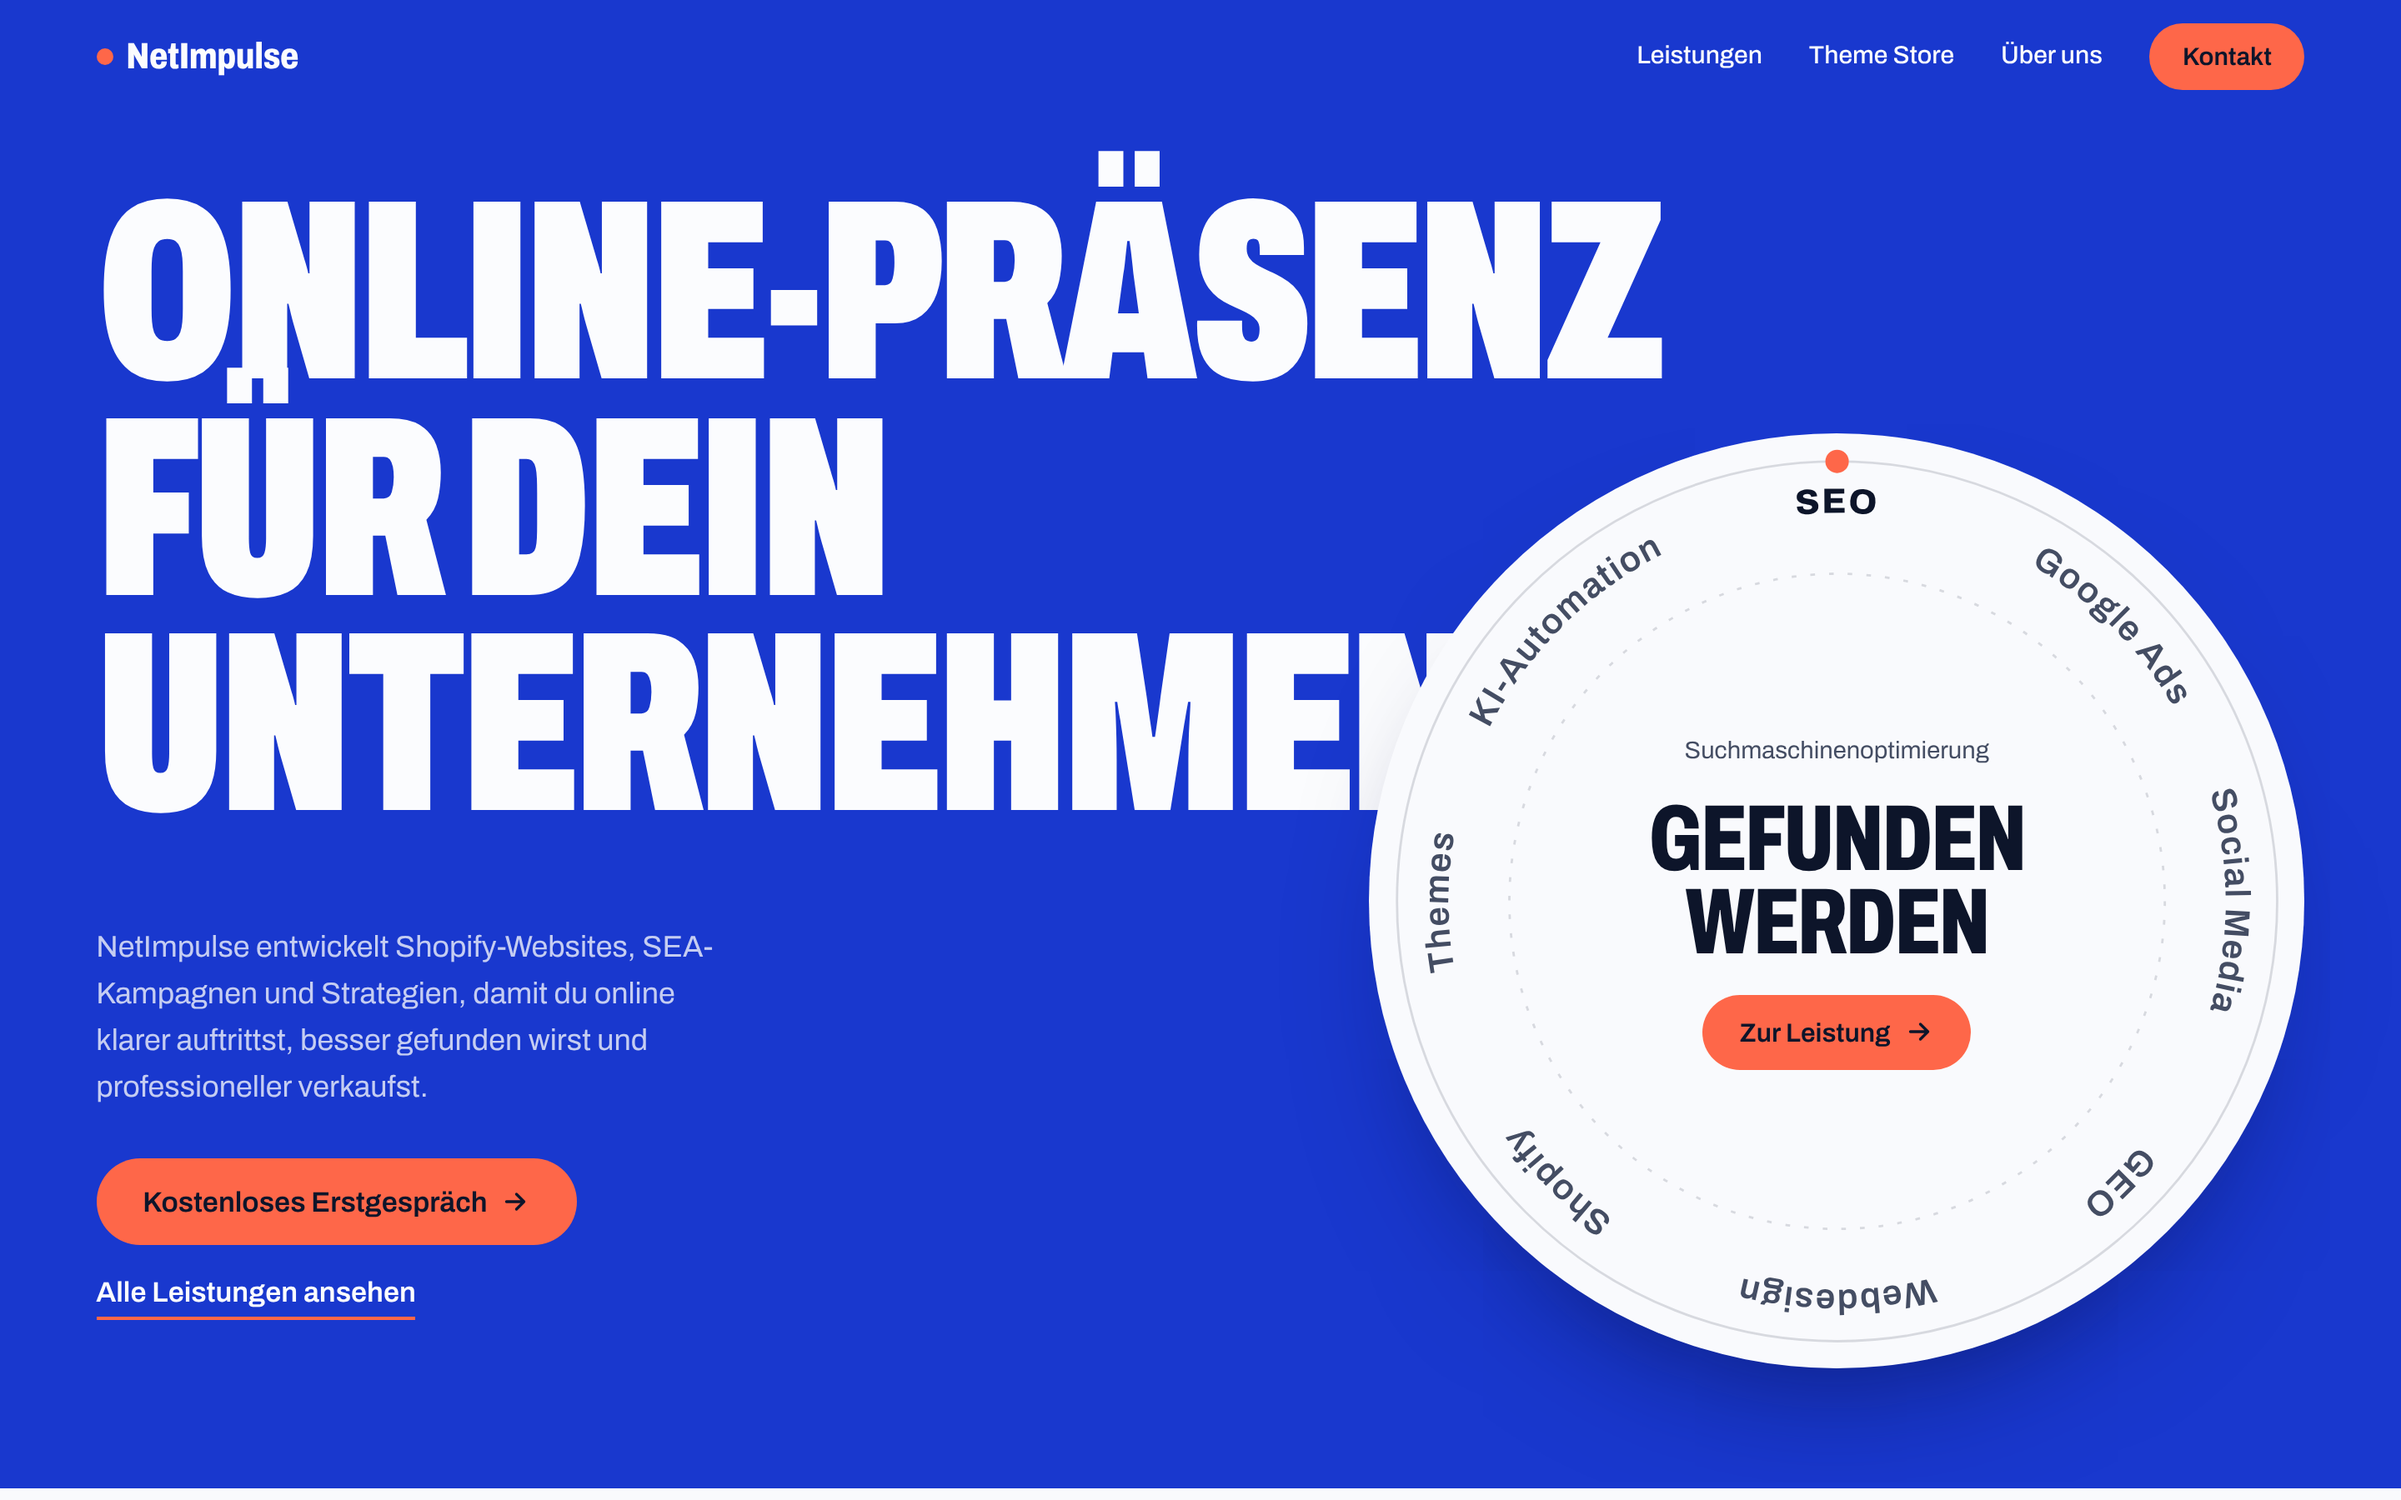
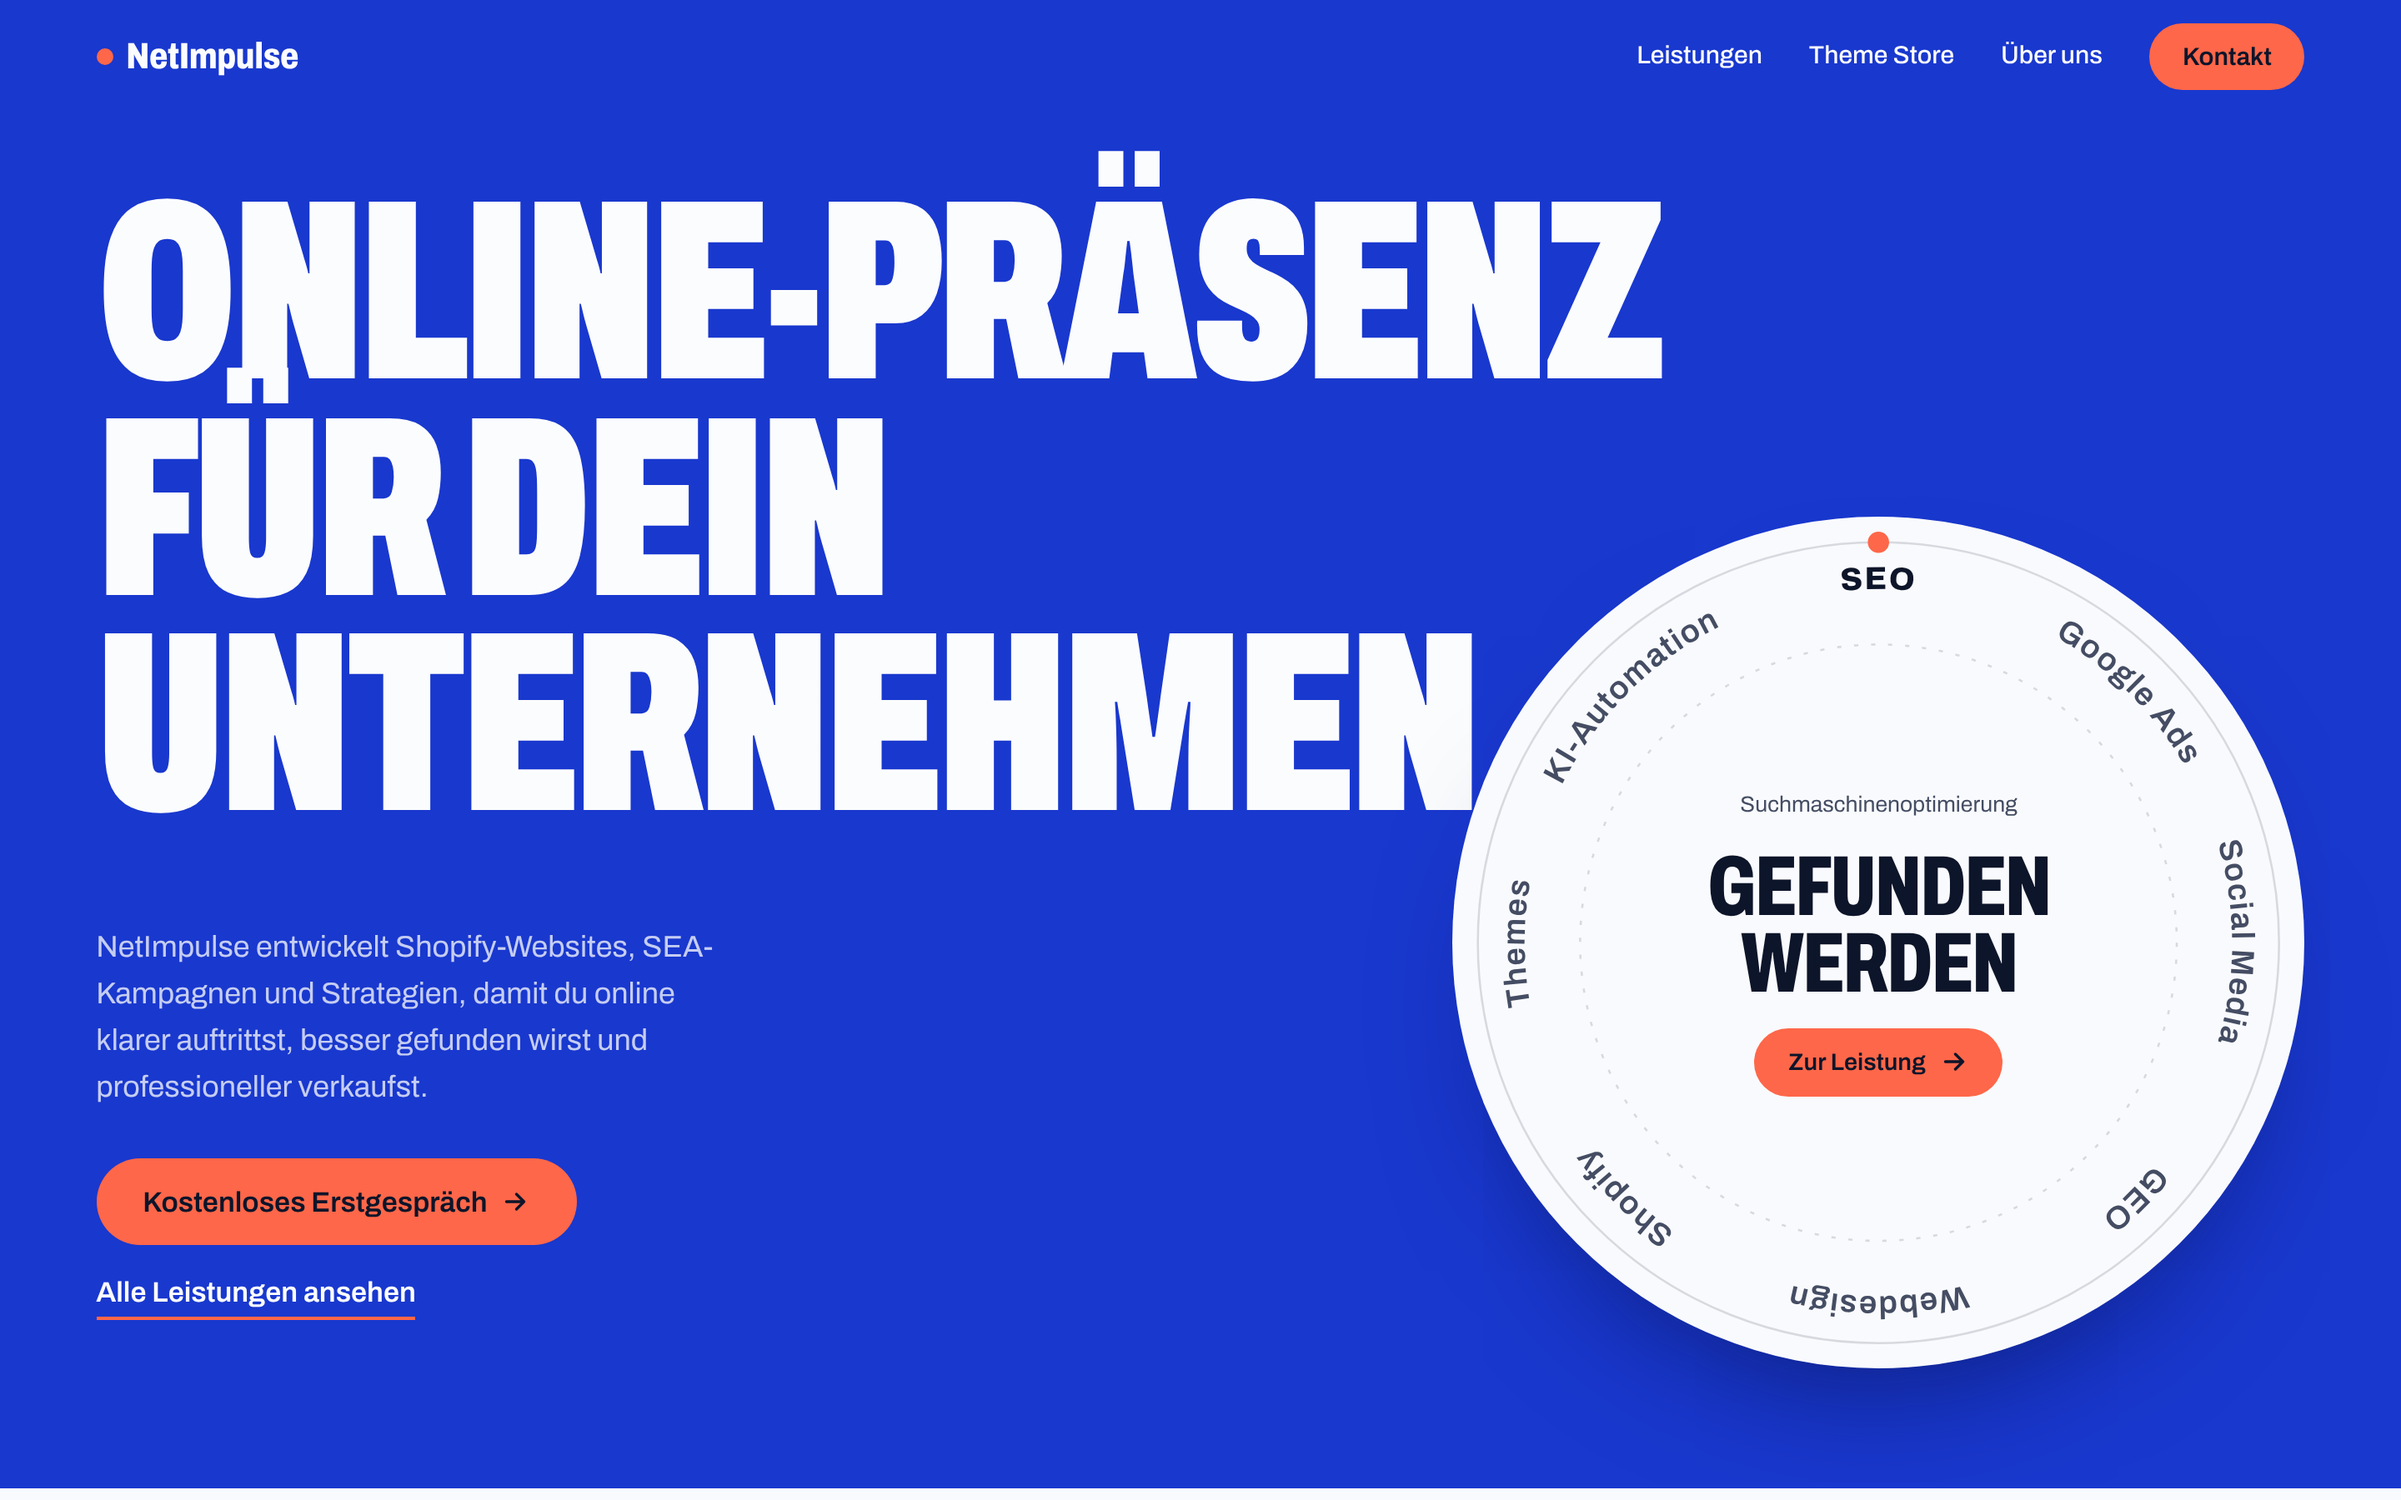
Prototyp: Scheibe im Hero verkleinert, Vorschaubild
Claude-Session: https://claude.ai/code/session_019h5rPf8qB6agUxy2E7JHDu

Changed region(s): [[0.5625, 0.28, 0.9688, 0.9333], [0.6875, 0.4978, 0.875, 0.7467]]

diff --git a/prototype/index.html b/prototype/index.html
@@ -78,7 +78,7 @@ img, svg { display: block; }
 .hero-front { position: relative; z-index: 3; margin-top: clamp(28px, 4vw, 56px); max-width: 44ch; }
 .hero-front p { color: var(--white-2); margin-bottom: 28px; font-size: 1.125rem; }
 .hero-actions { display: flex; flex-wrap: wrap; align-items: center; gap: 16px 28px; }
-.disc { position: absolute; z-index: 2; right: max(16px, 4vw); bottom: clamp(40px, 5vw, 88px); width: min(39vw, 600px); aspect-ratio: 1; border-radius: 50%; background: var(--paper); color: var(--ink); container-type: inline-size; box-shadow: 0 40px 80px -40px oklch(20% 0.1 268 / 0.7); }
+.disc { position: absolute; z-index: 2; right: max(16px, 4vw); bottom: clamp(40px, 5vw, 88px); width: min(35.5vw, 560px); aspect-ratio: 1; border-radius: 50%; background: var(--paper); color: var(--ink); container-type: inline-size; box-shadow: 0 40px 80px -40px oklch(20% 0.1 268 / 0.7); }
 .disc > svg { position: absolute; inset: 0; width: 100%; height: 100%; }
 .disc .ring-names text { font: 600 15px var(--ff); letter-spacing: 0.04em; fill: var(--ink-2); cursor: pointer; transition: fill 200ms var(--ease); }
 .disc .ring-names text:hover { fill: var(--ink); }
